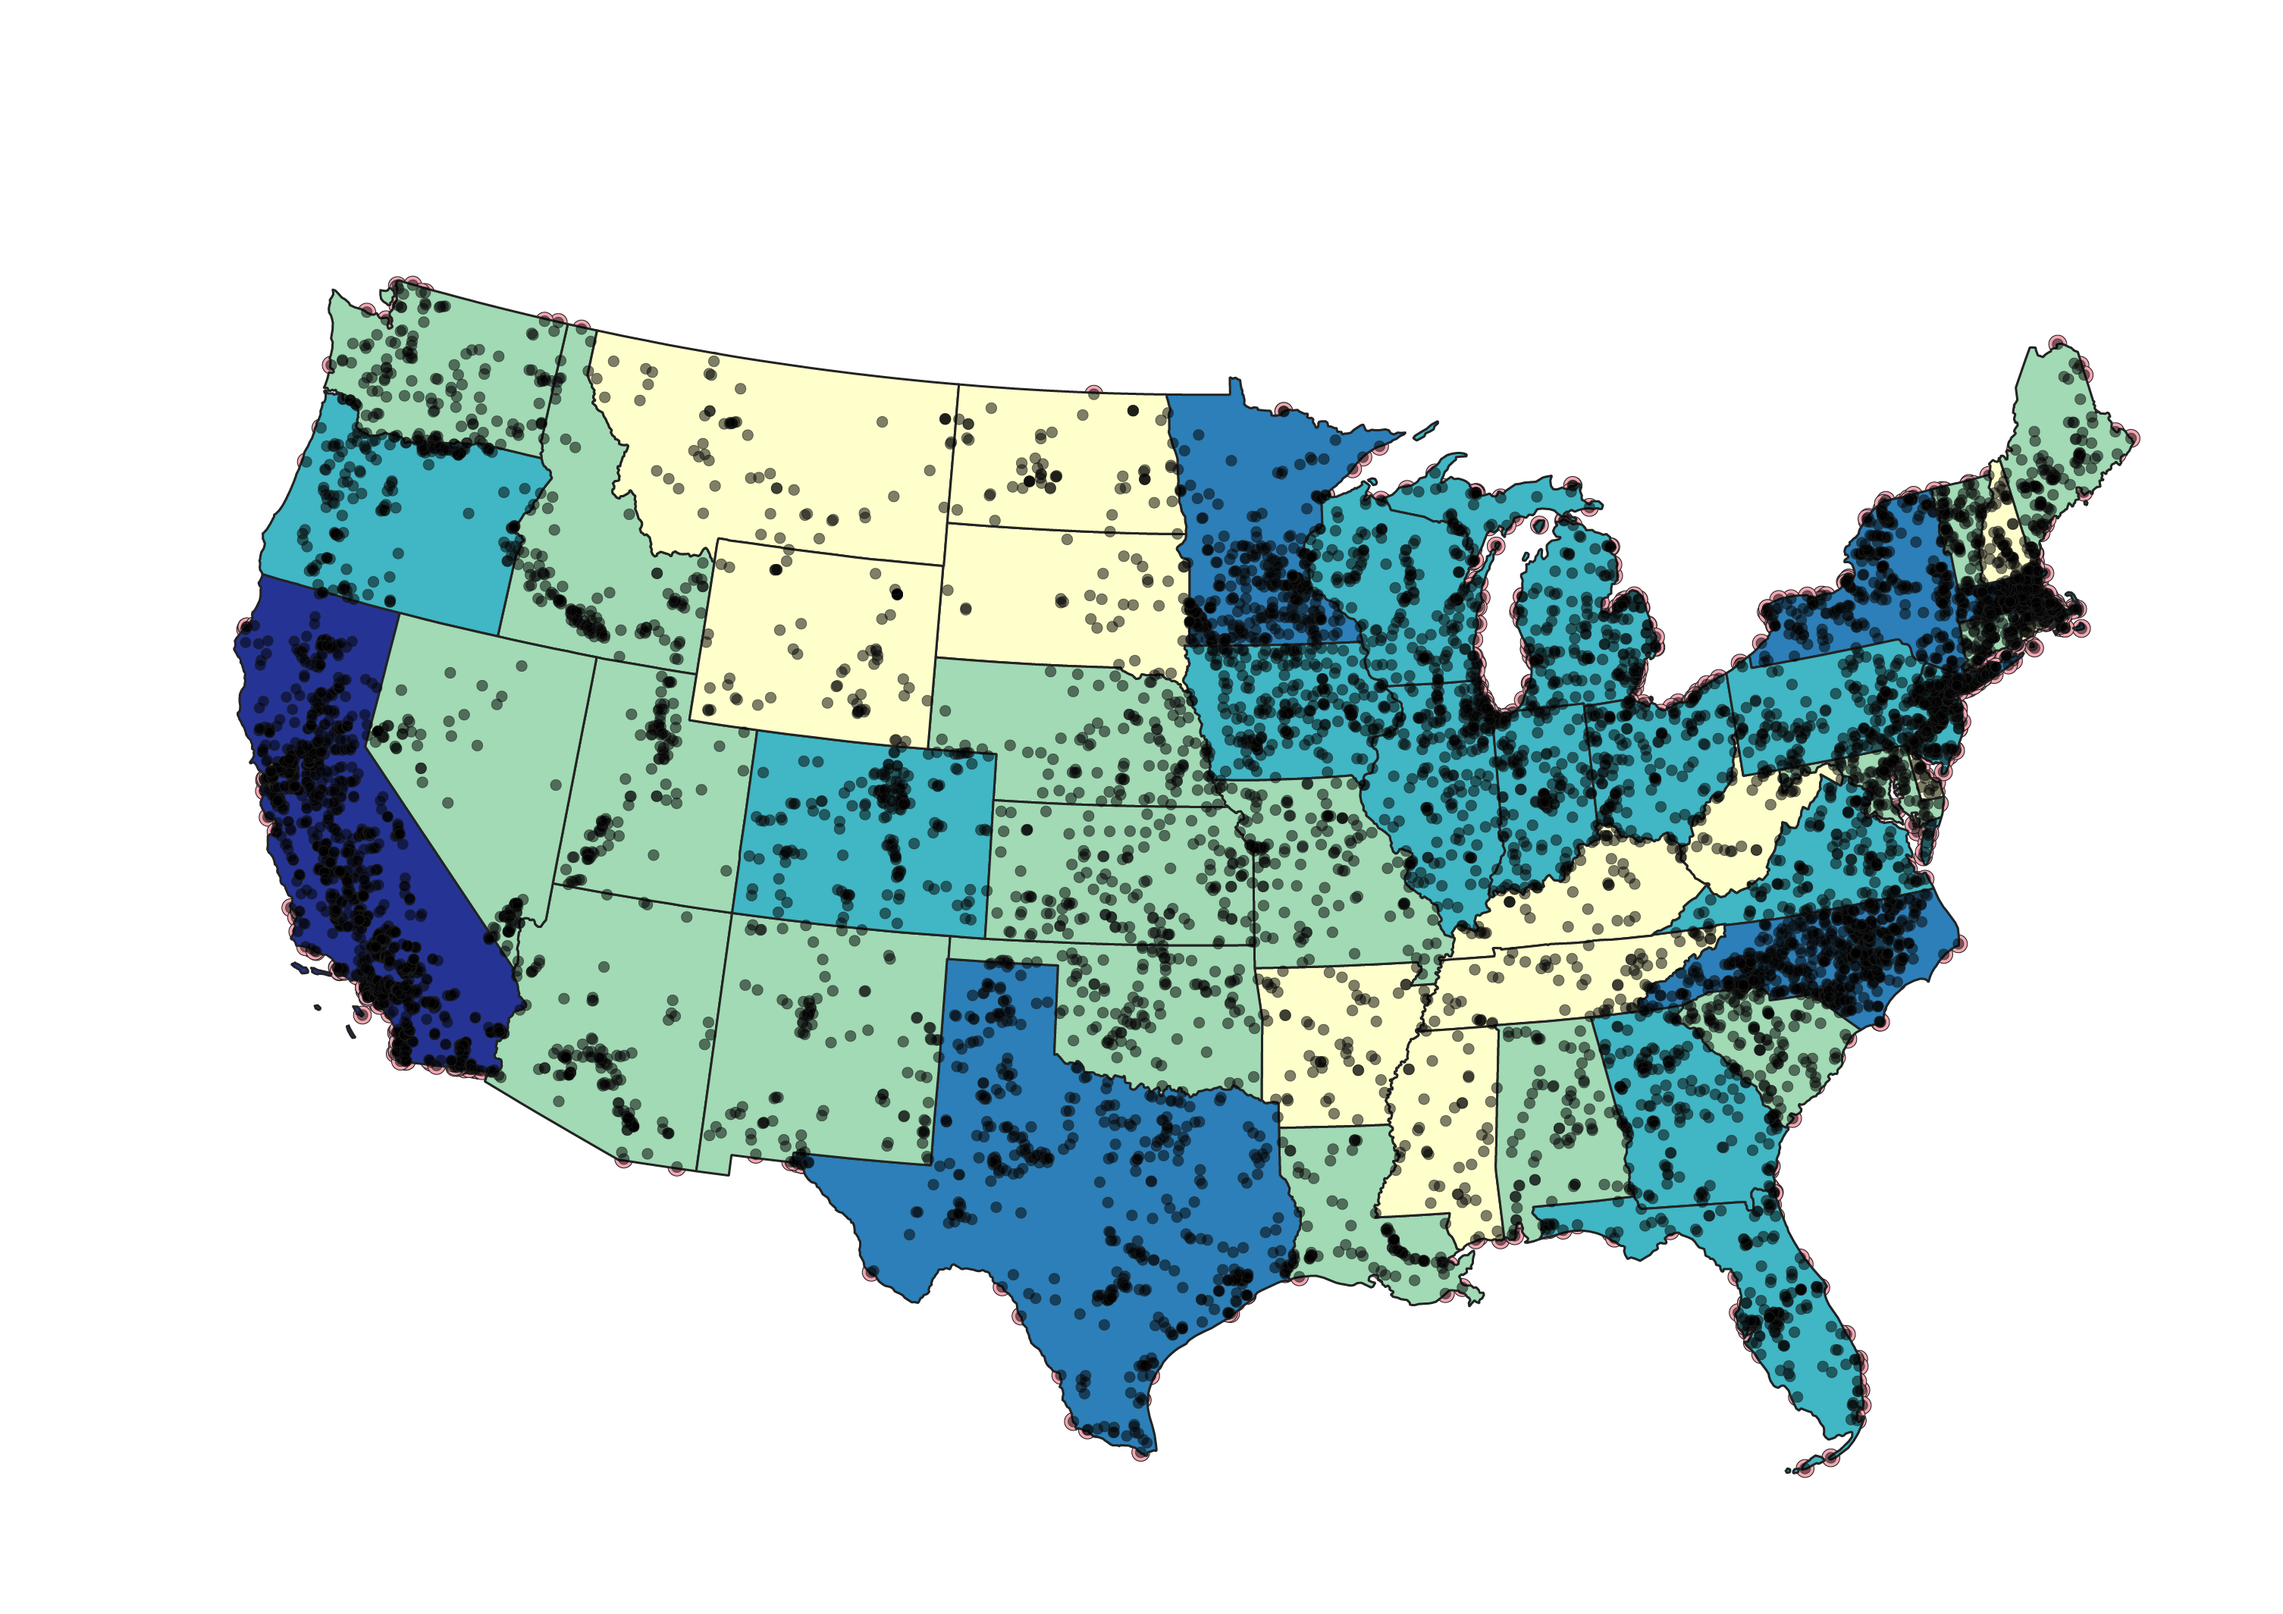
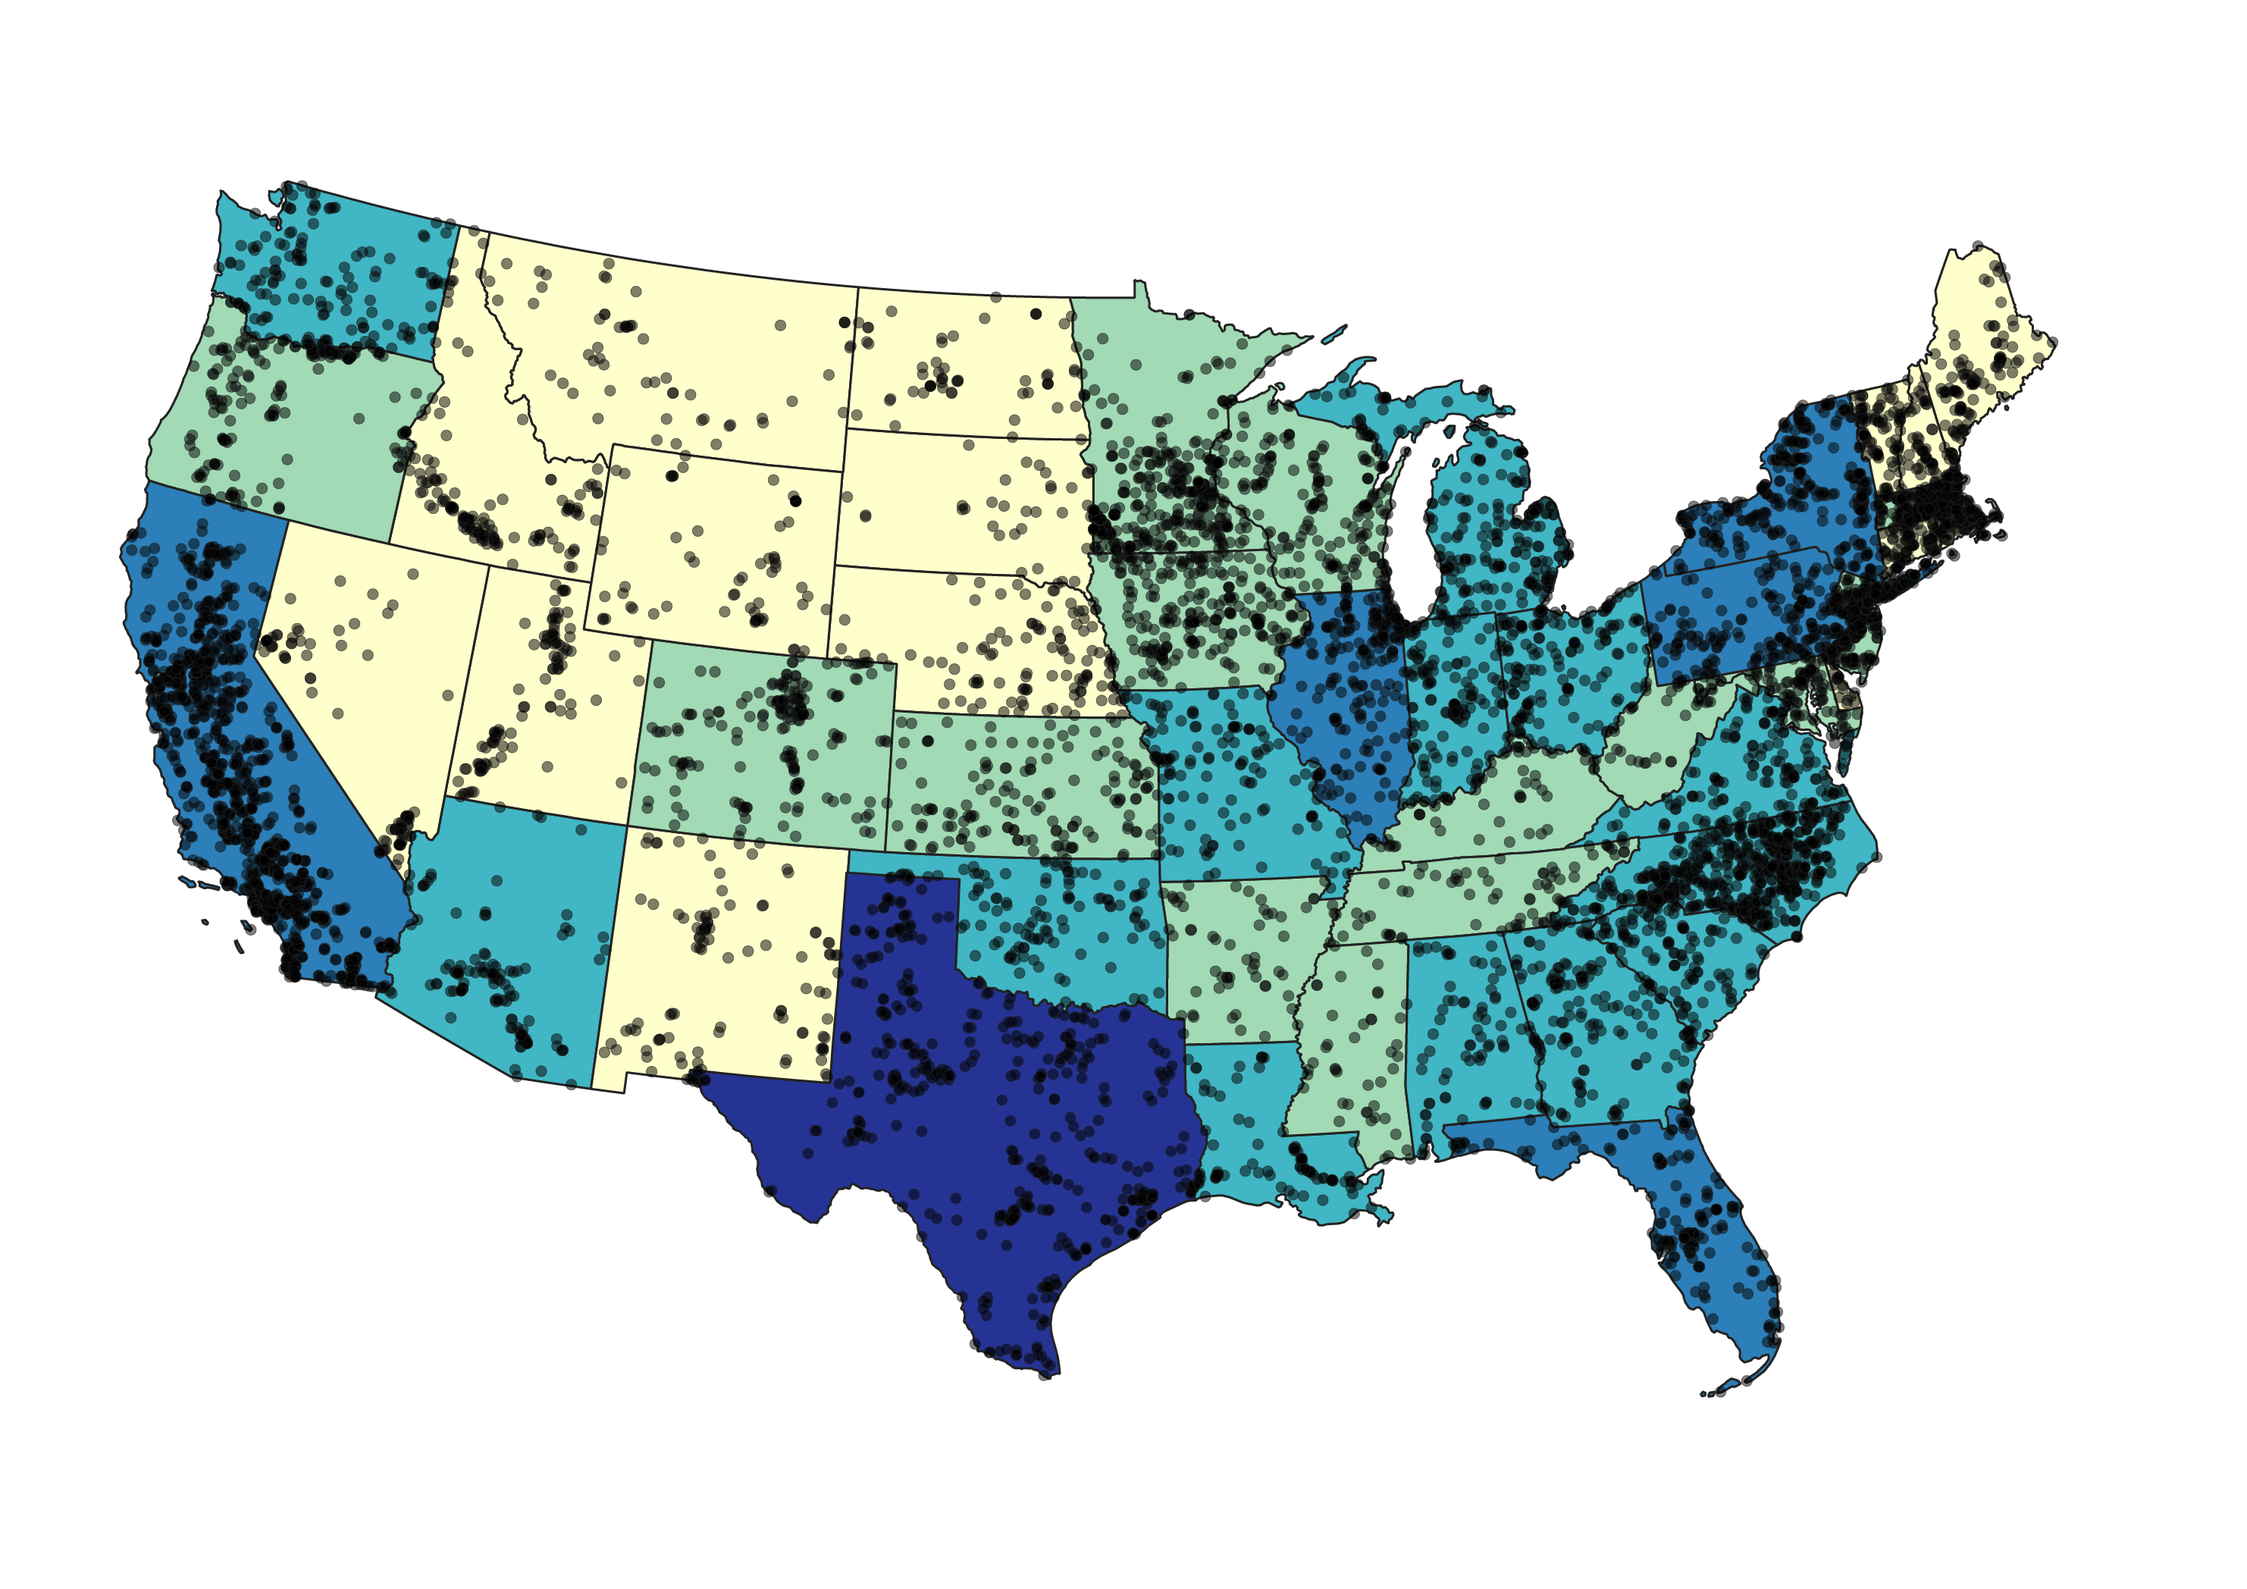
update

diff --git a/index.html b/index.html
@@ -1,0 +1,50 @@
+<!DOCTYPE html>
+<html lang="en">
+<head>
+  <meta charset="UTF-8" />
+  <title>A Map of Dementia-Related Missing Persons in Japan</title>
+  <meta name="viewport" content="width=device-width, initial-scale=1.0" />
+
+  <style>
+    .intro {
+      text-align: center;
+      margin: 20px;
+    }
+    </style>
+</head>
+
+<body>
+  <section class="intro">
+    <h1>Choropleths and bubble maps</h1>
+    <p>I created this as part of an assignment for the Lede Program.</p>
+    <p>Here is the Washington Post article I am using as a reference.</p>
+    <a href="https://www.washingtonpost.com/graphics/national/power-plants/">https://www.washingtonpost.com/graphics/national/power-plants/</a>
+    <img src="maps/all_map.png" alt="Overview map showing all power plants across the United States" width="100%" />
+  </section>
+
+    <h1>Map 1: Dot map</h1>
+    <img src="maps/map1.png" alt="Map showing all power plants with their energy source represented by color" width="100%" />
+
+    <h1>Map 2: Bubble map</h1>
+    <img src="maps/map2.png" alt="Map showing power plants by source, using both color and size of bubbles to indicate capacity" width="100%" />
+
+    <h1>Map 3: Colored dot map</h1>
+    <img src="maps/map3.png" alt="Bubble map displaying plant locations and size by power capacity, color-coded by fuel type" width="100%" />
+
+    <h1>Map 4: Colored bubble map</h1>
+    <img src="maps/map4.png" alt="Colored bubble map showing energy type and output capacity of power plants" width="100%" />
+    
+    <h1>Map 5: Coal only</h1>
+    <img src="maps/map5.png" alt="Choropleth map showing the number of solar power plants in each state" width="100%" />
+
+    <h1>Map 6: Solar only</h1>
+    <img src="maps/map6.png" alt="Choropleth map displaying the number of coal power plants per state" width="100%" />
+
+    <h1>Map 7: Solar choropleth</h1>
+    <img src="maps/map7.png" alt="Choropleth map of wind power plant counts by state with overlaid locations" width="100%" />
+
+    <h1>Map 8: Coal choropleth</h1>
+    <img src="maps/map8.png" alt="Map showing states with nuclear power plants and total output per plant" width="100%" />
+
+    <h1>Map 9: Power output by state</h1>
+    <img src="maps/map9.png" alt="Choropleth map showing total megawatt output by state with individual plant locations overlaid" width="100%" />
